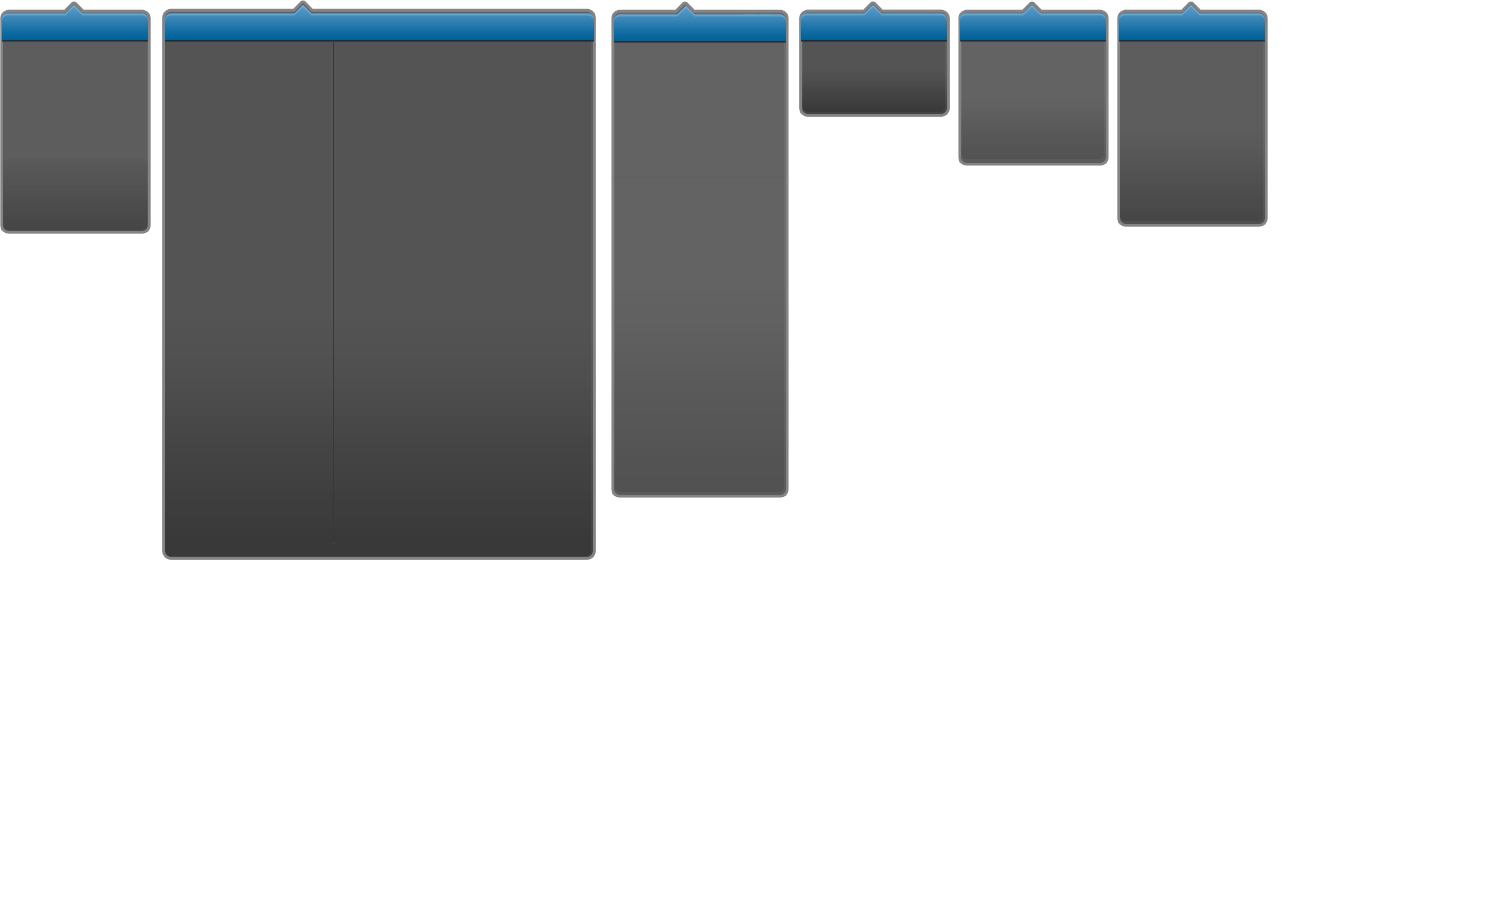
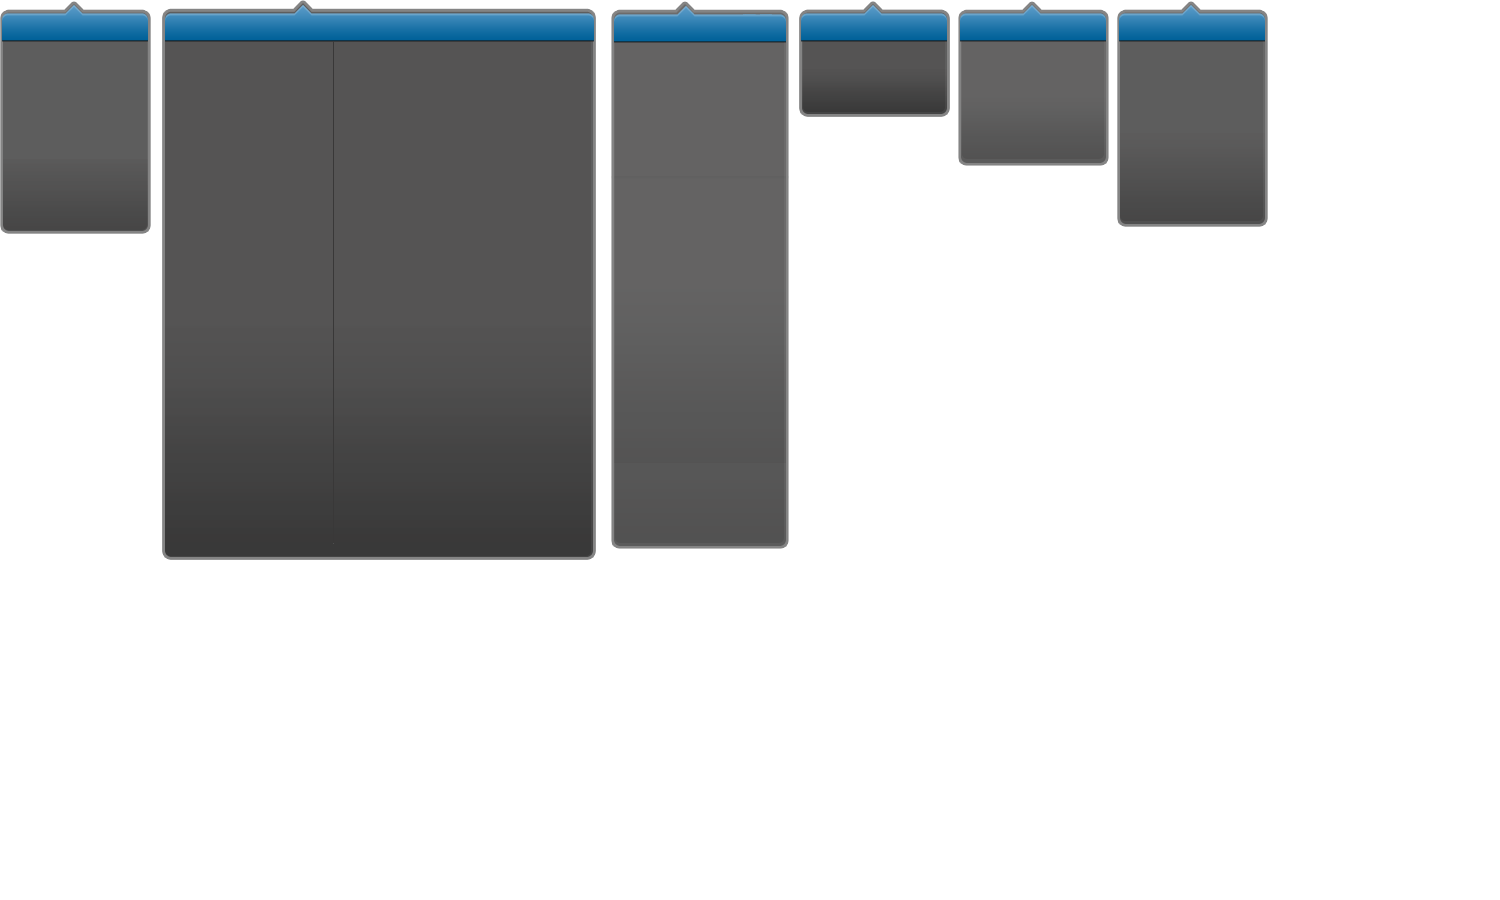
312312

Changed region(s): [[0.3987, 0.5289, 0.552, 0.6222]]

diff --git a/src/main/webapp/css/global.css b/src/main/webapp/css/global.css
@@ -385,3 +385,5 @@ a,a:hover{-moz-transition:color .3s linear; -webkit-transition:color .3s linear;
 
 
 .nav li.on .m2 .m2body b{ font-weight:normal;}
+.nav li.on .m3{ background-position:-611px 0; width:178px; height:560px;left:-10px; }
+.proPage1 .sLeft .promenu .prolink,.proPage1 .sLeft .promenu .prolink b{ height:auto;}

diff --git a/src/main/java/com/runsn/controller/ActivityController.java b/src/main/java/com/runsn/controller/ActivityController.java
@@ -13,6 +13,12 @@ import org.springframework.web.bind.annotation.RequestMapping;
  */
 @Controller
 public class ActivityController {
+
+    @RequestMapping("ad.html")
+    public String ad() {
+        return "ad";
+    }
+
     @RequestMapping("activity.html")
     public String activity() {
         return "activity";
